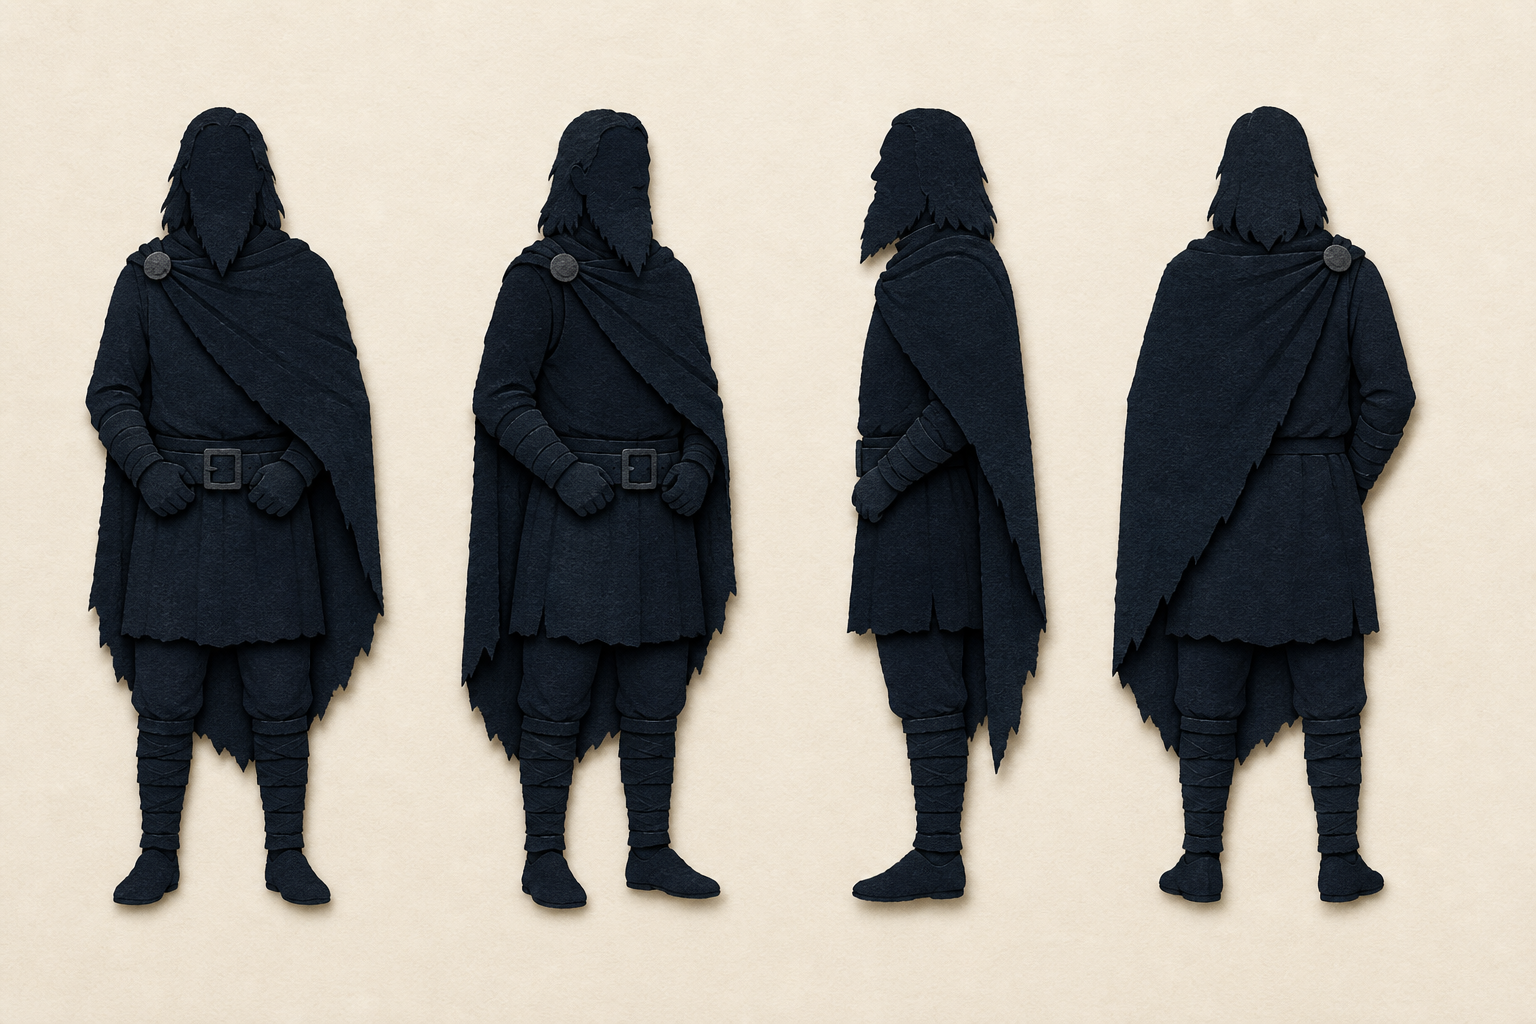
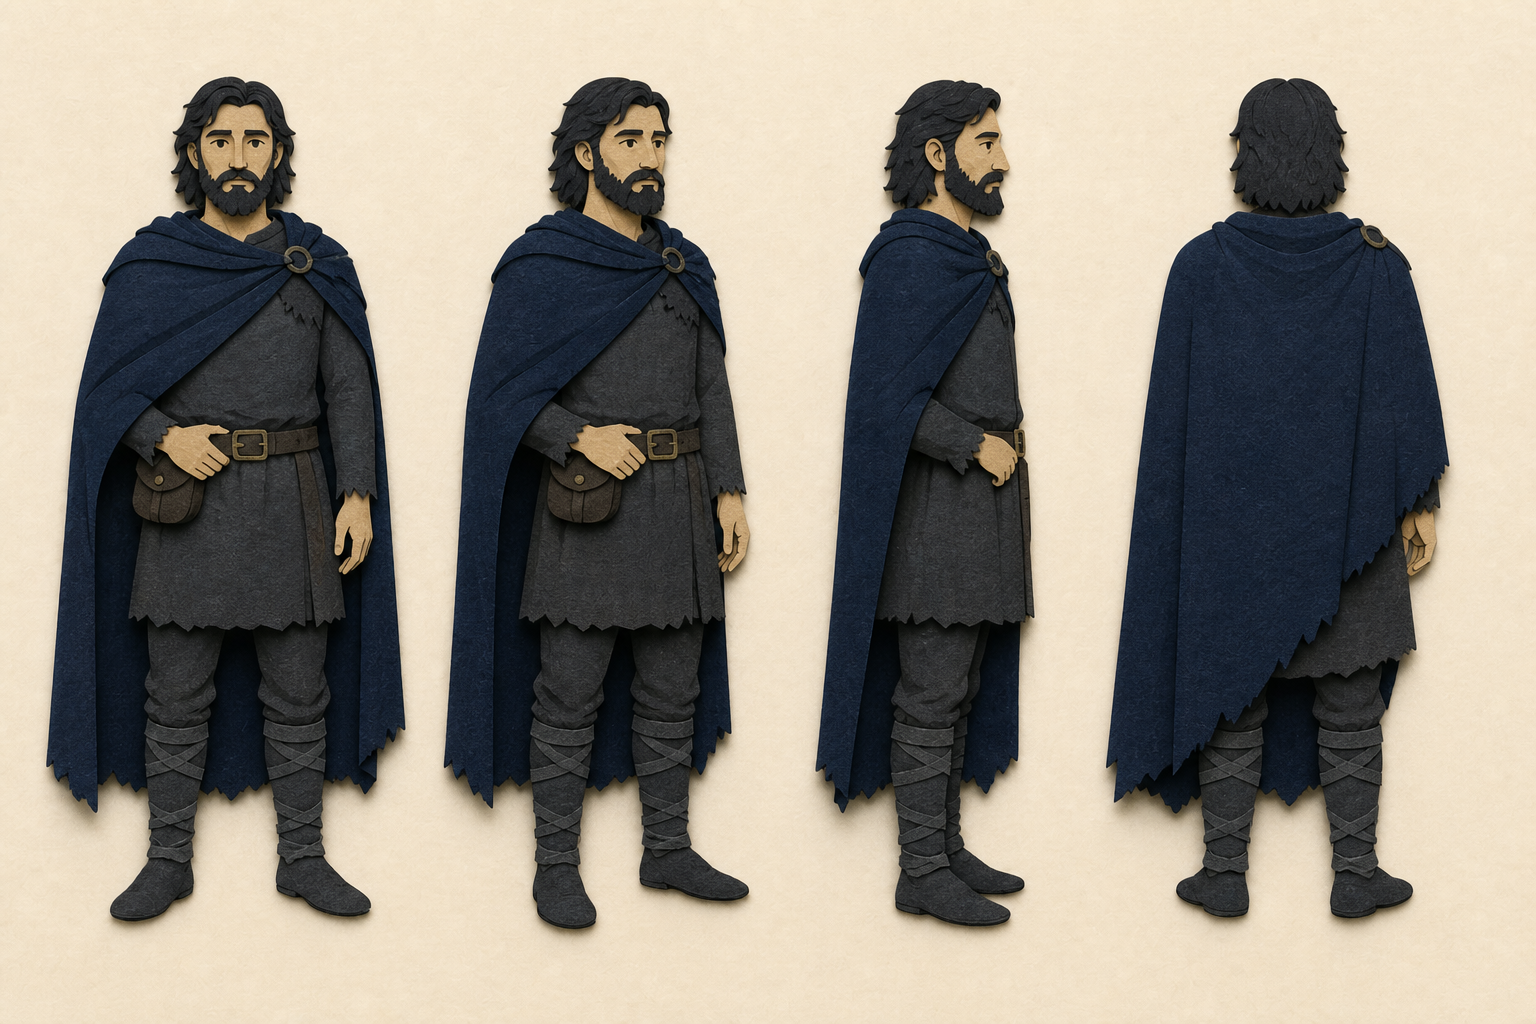
Redo character turnarounds with stylized faces for named principals.
Replaces Batman-style faceless silhouettes. Style bible now locks: principals
have visible cut-paper faces; crowds stay silhouettes.

diff --git a/assets/characters/FRI-001.md b/assets/characters/FRI-001.md
@@ -4,7 +4,7 @@ type: character
 status: draft
 ---
 
-# Fritigern — Silhouette Identity Sheet
+# Fritigern — Identity Sheet
 
 ## Identity
 
@@ -16,53 +16,47 @@ status: draft
 | Role in pilot | Principal; invited to Marcianople banquet |
 | First appearance | Ch. 1–2 (pressure / flight) |
 
-## Silhouette signature
+## Face (invented likeness — stylized cut-paper features)
 
-**Tallest principal.** Broad shoulders, long cloak with **fur deckle edge only at
-shoulders** (jagged torn-paper rim). Hair mass to shoulders, **clean jaw line**
-(little or no beard bulge). **Sword on left hip** — long vertical scabbard shape.
-Belt pouch bulge on right hip. Stands **upright, head slightly forward** — listening
-posture, not heroic chin-up.
+- **Age read:** late 40s
+- **Features:** strong brow, straight nose, calm mouth; watchful, not handsome-saint
+- **Hair:** shoulder-length, straight, dark indigo-brown cut-paper shape
+- **Beard:** short or clean-shaven jaw — **not** a long wizard beard
+- **Expression default:** listening, weighing options — never snarling, never beatific
+
+## Costume signature
+
+**Tallest principal.** Wool travelling cloak (mid-thigh, **not a floor-length bat
+cape**), subtle fur trim at shoulders only. Tunic and **trousers/bracae** visible.
+Leather belt, sword on left hip, pouch on right. Boots with leg wraps. Upright
+bearing, head slightly forward.
 
 ## Distinguish from Alavivus
 
 | Fritigern | Alavivus |
 | --- | --- |
-| Taller | Shorter |
-| Fur shoulder deckle | One-shoulder cloak triangle drape |
-| Clean jaw | Full beard point below chin |
-| Sword left hip | Hands at belt, no prominent sword |
-
-## Distinguish from Lupicinus
-
-| Fritigern | Lupicinus |
-| --- | --- |
-| Trousers taper below knee | Columnar tunic, bare calf |
-| Long hair mass | Short crop / bald |
-| Fur + travelling cloak | Paludamentum pinned right shoulder |
+| Taller, broader | Shorter, leaner |
+| Cleaner jaw | Fuller beard |
+| Cloak both shoulders, fur trim | One-shoulder pin drape |
+| Sword at hip | No sword |
 
 ## Anti-caricature note
 
-Not a king's crown shape. Not sanctified (no centred halo, no gold on person).
-Not the largest silhouette in every frame — in crowds he is found by **shoulder fur
-deckle + height**, not spotlight.
-
-## Banquet state (`FRI-001-BANQUET`)
-
-Cloak open at front showing layered tunic. Seated on **bench** (not Roman chair).
-Torso leaned slightly forward. Drinking horn or bowl silhouette on table — not Roman
-cup shape.
+NOT Batman. NOT a black void silhouette. NOT a king with crown. NOT sanctified.
+Ordinary commanding presence.
 
 ## Turnaround
 
-`assets/characters/FRI-001-turnaround.png`
+`assets/characters/FRI-001-turnaround.png` — four views, **face visible in every view**
 
 ## Prompt fragment
 
 ```
-Featureless dark silhouette, no face. Gothic Thervingi nobleman 376 CE: tallest
-figure, broad shoulders, long cloak with torn-paper fur deckle edge at shoulders only,
-hair mass to shoulders, clean jaw, long sword scabbard left hip, belt pouch right
-hip, trousers tapering below knee. Layered cut-paper, deep indigo bone iron grey,
-no text, no invented ornament, late-antique material culture only.
+Layered cut-paper illustration, late-antique 376 CE Gothic Thervingi nobleman
+Fritigern: stylized visible face with eyes nose and mouth (simple cut-paper
+features, not photoreal), late 40s, shoulder-length hair, clean jaw, watchful calm
+expression, tallest principal, broad shoulders, mid-thigh wool travelling cloak
+with subtle fur shoulder trim NOT a superhero cape, tunic and trousers visible,
+sword left hip, leather belt, bone and indigo and iron grey palette, handmade
+paper texture, no text, no invented heraldry, not Batman not silhouette-only
 ```

diff --git a/assets/characters/LUP-001.md b/assets/characters/LUP-001.md
@@ -4,7 +4,7 @@ type: character
 status: draft
 ---
 
-# Lupicinus — Silhouette Identity Sheet
+# Lupicinus — Identity Sheet
 
 ## Identity
 
@@ -14,48 +14,37 @@ status: draft
 | Historical basis | attested (comes rei militaris in Thrace, 376) |
 | Faction | Roman |
 | Role in pilot | Roman host at Marcianople banquet |
-| First appearance | Marcianople |
 
-## Silhouette signature
+## Face (invented likeness)
 
-**Same height as Gothic leaders** — not towering villain. **Short hair or bald dome**
-silhouette. **Columnar tunic** to mid-calf, **bare lower leg** with calcei boot ankle
-line. **Paludamentum** (command cloak) clipped at **right shoulder**, falls flat
-behind body. **Short sword on right hip** (Roman side). **Open-hand convivial gesture**
-at banquet — palm visible as cut shape, not fist.
+- **Age read:** 50s, weathered but well-fed
+- **Features:** Roman nose, tired eyes with competence, close-trimmed beard or clean
+  shaven — **not** villain brows
+- **Hair:** receding or short crop, grey at temples as lighter paper tone
+- **Expression default:** convivial, open — mid-conversation, not sneering
 
-## Distinguish from Gothic principals
+## Costume signature
 
-| Lupicinus | Gothic leaders |
-| --- | --- |
-| Columnar tunic line | Layered cloak mass |
-| Bare calf / sandal strap | Trousers taper |
-| Short hair / bald | Long hair to shoulders |
-| Paludamentum behind | Fur deckle or triangle drape |
-| Roman chair with back | Bench |
+Same height as Gothic leaders. **Columnar military tunic** to knee, **paludamentum**
+at right shoulder. Bare lower legs, calcei sandals. Short sword right hip. **No gold
+trim on clothing** — indigo and bone only.
 
-## Anti-caricature note — REQUIRED
+## Anti-caricature note (Principle 5)
 
-**Principle 5 applies hardest here.** Not hunched, not claw-handed, not heavier cut
-weight, not darker paper stock. He may be genuinely convivial for fifteen minutes.
-The horror is that an ordinary Roman commander shape does the thing.
-
-## Banquet state (`LUP-001-BANQUET`)
-
-Seated in **Roman chair** (back visible as cut shape). Paludamentum draped over chair
-back. Table cup (not horn). One hand gesturing mid-conversation. Relaxed shoulders.
+NOT hunched. NOT claw-handed. NOT black silhouette. NOT heavier or uglier rendering
+than Goths. Ordinary Roman commander at dinner.
 
 ## Turnaround
 
-`assets/characters/LUP-001-turnaround.png`
+`assets/characters/LUP-001-turnaround.png` — face visible all views
 
 ## Prompt fragment
 
 ```
-Featureless dark silhouette, no face. Late-Roman military commander Thrace 376 CE:
-same height as companions not towering, short hair or bald dome, columnar tunic to
-mid-calf, bare lower leg calcei boot line, paludamentum clipped right shoulder
-falling behind, short sword right hip, open convivial hand gesture. NOT villain
-proportions, NOT hunched. Layered cut-paper, deep indigo bone iron grey, no text,
-late-antique only.
+Layered cut-paper illustration, late-antique 376 CE Roman commander Lupicinus
+Thrace: stylized visible face eyes nose mouth, 50s weathered competent expression
+convivial not villain, short greying hair, columnar military tunic to knee,
+paludamentum right shoulder, bare calves calcei sandals, short sword right hip,
+same height as Gothic leaders, bone indigo iron grey only no gold on costume, paper
+texture, no text, not silhouette-only
 ```

diff --git a/assets/characters/ALA-001.md b/assets/characters/ALA-001.md
@@ -4,7 +4,7 @@ type: character
 status: draft
 ---
 
-# Alavivus — Silhouette Identity Sheet
+# Alavivus — Identity Sheet
 
 ## Identity
 
@@ -14,44 +14,32 @@ status: draft
 | Historical basis | attested (co-leader with Fritigern; vanishes after Marcianople) |
 | Faction | Gothic |
 | Role in pilot | Principal; co-guest at banquet |
-| First appearance | Marcianople |
 
-> **Note on Alaric:** Alaric (future Visigothic king) was a child in 376 and is
-> not attested at Marcianople. This sheet is **Alavivus**, Fritigern's co-leader.
-> A separate `ALR-001` sheet can be added for the later Adrianople arc.
+> **Not Alaric** at Marcianople (376). Alaric was a child then.
 
-## Silhouette signature
+## Face (invented likeness)
 
-**Shorter than Fritigern.** Narrower shoulders. **Cloak pinned at one shoulder**
-creating an asymmetric **triangle drape** — the single fastest ID marker. **Full beard
-point** extending below chin (deckle edge). Hands habitually at belt, not at sides.
-No prominent sword silhouette.
+- **Age read:** mid 30s
+- **Features:** narrower face, sharper cheek planes, thoughtful eyes
+- **Hair:** shorter than Fritigern, wavy, tucked behind ears in profile
+- **Beard:** medium full beard — **primary ID** vs Fritigern's cleaner jaw
+- **Expression default:** reserved, slightly withdrawn
 
-## Distinguish from Fritigern
+## Costume signature
 
-See `FRI-001.md` comparison table. At banquet: seated **beside** not opposite
-Lupicinus; slightly turned toward Fritigern.
-
-## Anti-caricature note
-
-Thin does not mean weak or sneaky. Same paper weight and cut quality as Fritigern.
-Beard is shape, not villain goatee.
-
-## Banquet state (`ALA-001-BANQUET`)
-
-Both hands visible on table edge. Cloak triangle drape falls to bench beside him.
-Slightly withdrawn posture — smaller negative space around figure.
+Shorter and leaner than Fritigern. Cloak **pinned at one shoulder** with asymmetric
+triangle drape. Trousers, belt, no sword. Hands often at belt.
 
 ## Turnaround
 
-`assets/characters/ALA-001-turnaround.png`
+`assets/characters/ALA-001-turnaround.png` — face visible all views
 
 ## Prompt fragment
 
 ```
-Featureless dark silhouette, no face. Gothic co-leader 376 CE: shorter narrower
-figure than companion lord, cloak pinned one shoulder with asymmetric triangle drape,
-full beard point with deckle edge below chin, hands at belt, trousers taper below
-knee, no sword prominence. Layered cut-paper, deep indigo bone iron grey, no text,
-late-antique only.
+Layered cut-paper illustration, late-antique 376 CE Gothic co-leader Alavivus:
+stylized visible face eyes nose mouth, mid 30s, narrower face, medium full beard,
+shorter wavy hair, reserved expression, shorter leaner build than companion lord,
+cloak pinned one shoulder asymmetric triangle drape, trousers, belt, no sword, bone
+indigo iron grey palette, paper texture, no text, not silhouette-only not Batman
 ```

diff --git a/bible/02-style-bible.md b/bible/02-style-bible.md
@@ -29,9 +29,19 @@ deliberately diverged from the source.
 
 Flat digital illustration imitating layered cut paper: stacked planes with soft drop
 shadows, visible handmade paper fibre throughout, hard scissor-cut edges, torn
-deckle edges for anything damaged or organic. **Figures are featureless
-silhouettes.** Light is drawn as flat translucent shape, never rendered
-illumination. No brushwork anywhere.
+deckle edges for anything damaged or organic.
+
+**Face rule (locked after character review):**
+- **Named principals** (Fritigern, Alavivus, Lupicinus, and any character with an
+  approved identity sheet) have **visible stylized faces** — simple cut-paper features
+  (eyes, nose, mouth readable at turnaround scale). Faces are invented likenesses,
+  never claimed as attested.
+- **Crowds, extras, and distant figures** remain featureless silhouettes.
+- Principals must NOT be rendered as solid black Batman-style silhouettes with no
+  face. Cloaks are travelling cloaks, not superhero capes.
+
+Light is drawn as flat translucent shape, never rendered illumination. No brushwork
+anywhere.
 
 Palette, four colours, rigidly held: deep indigo, bone, iron grey, tarnished gold.
 
@@ -46,9 +56,9 @@ Screened against four benchmark subjects and passed all four:
 
 ### Why this register solves three standing problems
 
-1. **Character continuity.** No faces means no face to keep consistent across
-   hundreds of generations. Identity is silhouette, posture and costume shape —
-   specifiable, inspectable, stable. Character sheets become silhouette sheets.
+1. **Character continuity.** Named principals carry a locked stylized face from
+   approved turnaround sheets; crowds stay silhouettes. Identity is face + posture +
+   costume shape — specifiable, inspectable, stable.
 2. **Parallax.** The style is made of separated planes. The aesthetic and the
    delivery constraint in `00-scope-and-decisions.md` §4.2 are the same thing.
 3. **Epistemic honesty.** Nothing here pretends to be a photograph, so the work

diff --git a/assets/characters/FACTION-SILHOUETTE-GUIDE.md b/assets/characters/FACTION-SILHOUETTE-GUIDE.md
@@ -3,8 +3,11 @@
 Status: **draft** — for banquet treachery and all mixed scenes.
 
 In the cut-paper register, **both peoples get identical cut quality, detail budget,
-and dignity** (Principle 5). Differentiation is **shape grammar only** — never
+and dignity** (Principle 5). Differentiation is **shape grammar** — never
 darker/heavier hand for Romans, never "squalor" shapes for Goths.
+
+**Named principals have visible stylized faces** (cut-paper eyes, nose, mouth) on
+every approved turnaround. Crowds and extras remain faceless silhouettes.
 
 ---
 
